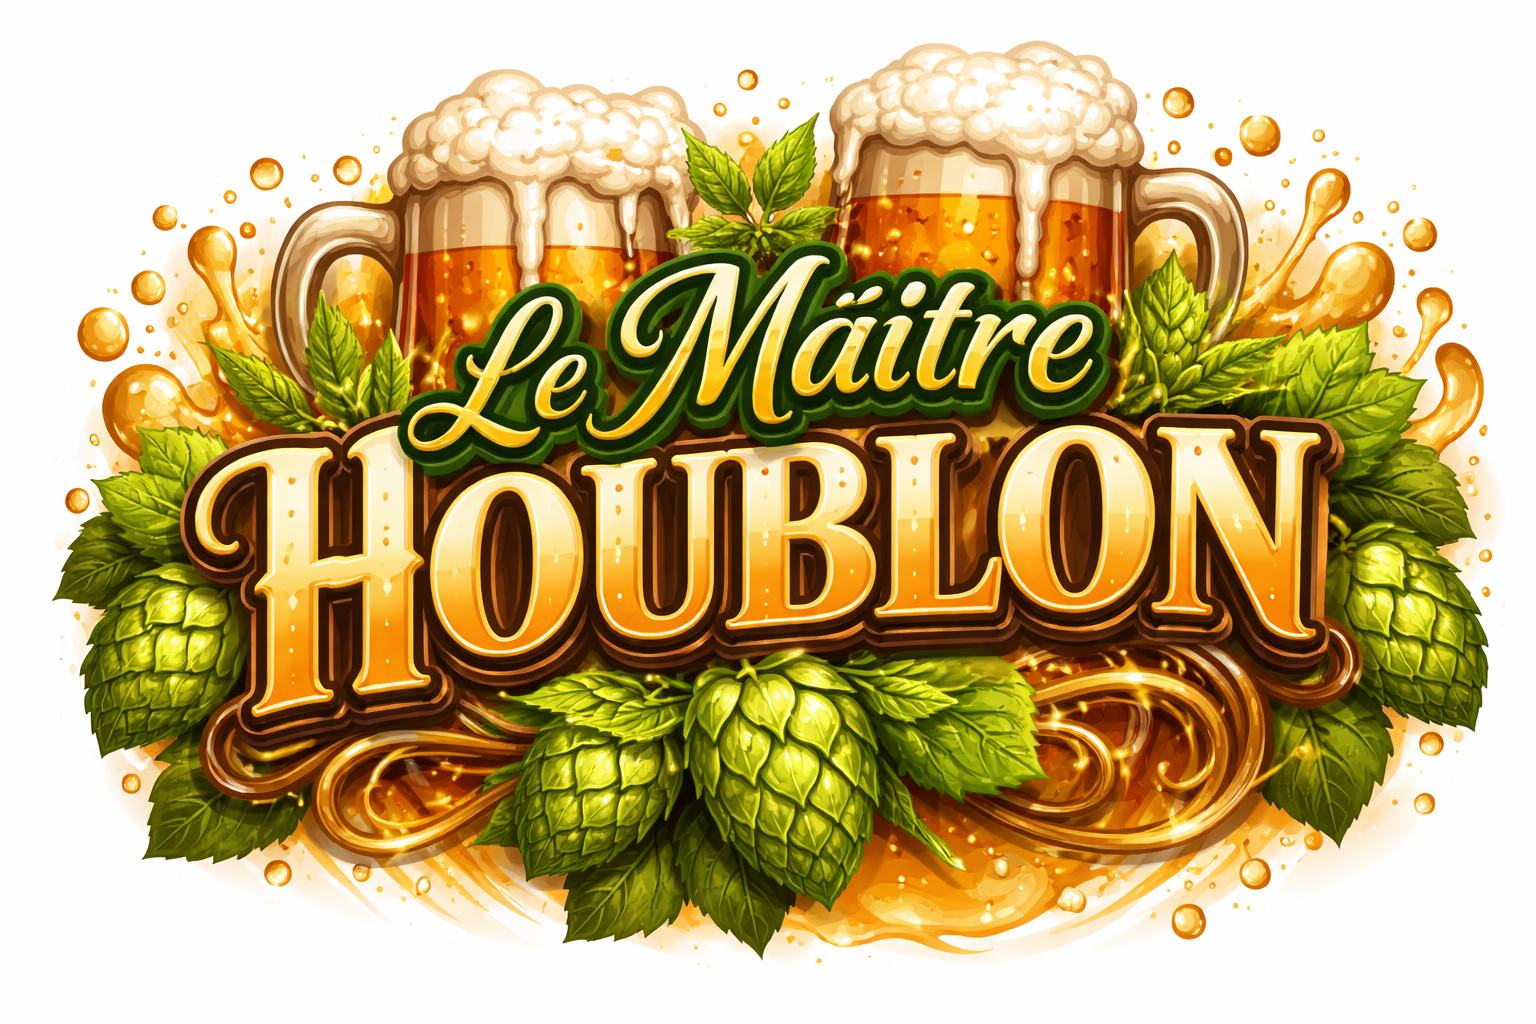
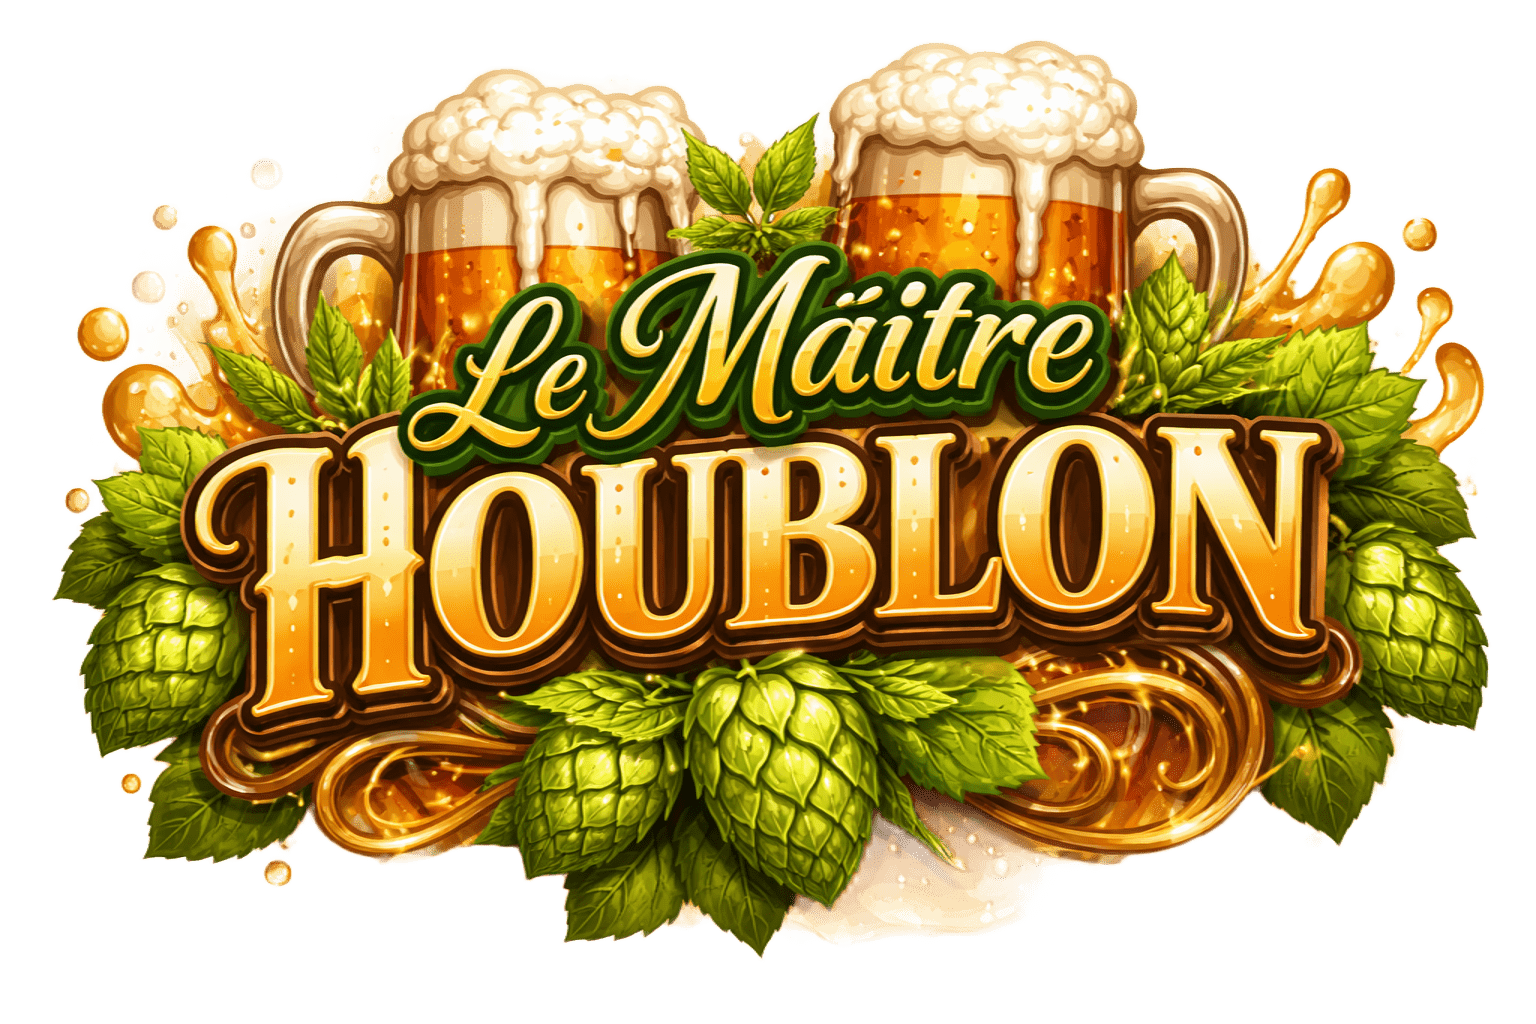
Amélioration du css avec un nouveau background et plein de ptit truc

diff --git a/style.css b/style.css
@@ -11,7 +11,7 @@ html, body {
     height: 100%;
     margin: 0;
     overflow: hidden;
-    background-color: var(--mousse-blanche); /* var choisi dans le casier */
+    background-image: url(../Beers-App/Images/Background.png); 
     font-family: 'Segoe UI', Roboto, sans-serif;
 }
 
@@ -19,7 +19,7 @@ html, body {
 .app-container {
     display: flex;
     flex-direction: column;
-    height: 100vh;
+    min-height: 100vh; /* Oblige le site à faire 100% de la hauteur de l'écran */
     padding: 15px;
 }
 
@@ -44,17 +44,22 @@ html, body {
     max-height: 80%; /* Pour laisser un peu d'espace autour */
     width: auto;     /* Garde les proportions de l'image */
     display: block;
-    border: 2px solid var(--noir-houblon);
+    border: 2px solid var(--noir-houblon); /* var choisi dans le casier */
     border-radius: 4px;
     padding: 5px;
 }
 
 .header-box.light {
-    background-color: white;
-    padding: 0 15px; /* Optionnel : un peu d'espace sur les côtés */
+    font-family: 'Special Elite', system-ui;
+    min-height: 50px;
+    height: auto !important;
+    font-size: 4.3rem;
+    font-weight: bold;
+    padding: 10px 20px;
     display: flex;
-    justify-content: center;
     align-items: center;
+    justify-content: center;
+    border: 1px solid var(--noir-houblon);
 }
 
 /* Style bouton (Inscription / Connexion) */
@@ -74,7 +79,7 @@ html, body {
 
 /* Gestion de la grille de contenu */
 .main-content {
-    flex-grow: 1; 
+    flex: 1; 
     margin-top: 0 !important;
     margin-bottom: 0 !important;
 }
@@ -148,8 +153,9 @@ html, body {
 
 /* Style du Footer */
 .custom-footer {
-    padding: 10px;
+    background-color: var(--noir-houblon);
+    padding: 1rem 0;
     border-top: 1px solid #ddd;
     font-size: 0.8rem;
-    color: #8e9aaf;
+    color: var(--malte-gris);
 }

diff --git a/index.html b/index.html
@@ -5,6 +5,7 @@
     <meta name="viewport" content="width=device-width, initial-scale=1.0">
     <link rel="stylesheet" href="https://cdn.jsdelivr.net/npm/bulma@1.0.0/css/bulma.min.css">
     <link rel="stylesheet" href="style.css">
+    <link href="https://fonts.googleapis.com/css2?family=Special+Elite&display=swap" rel="stylesheet">
     <title>Le Maître Houblon</title>
 </head>
 <body>